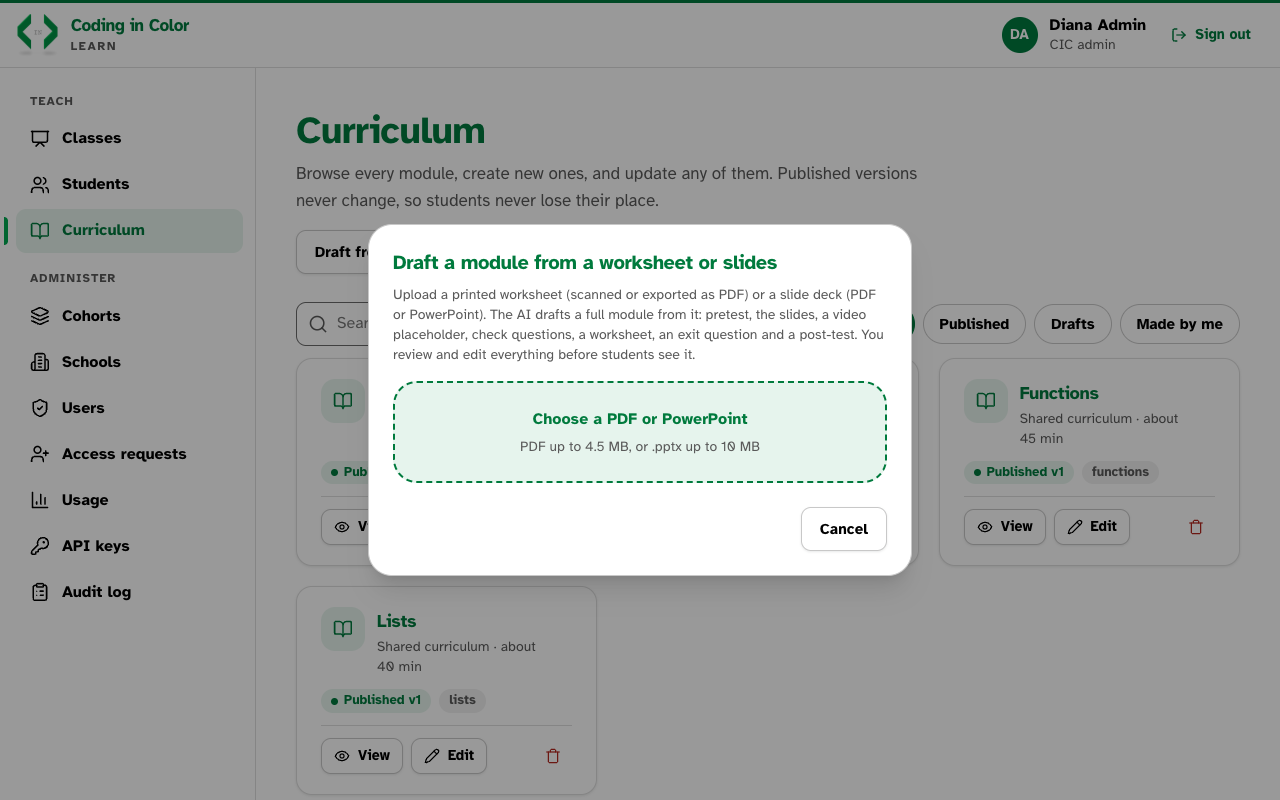
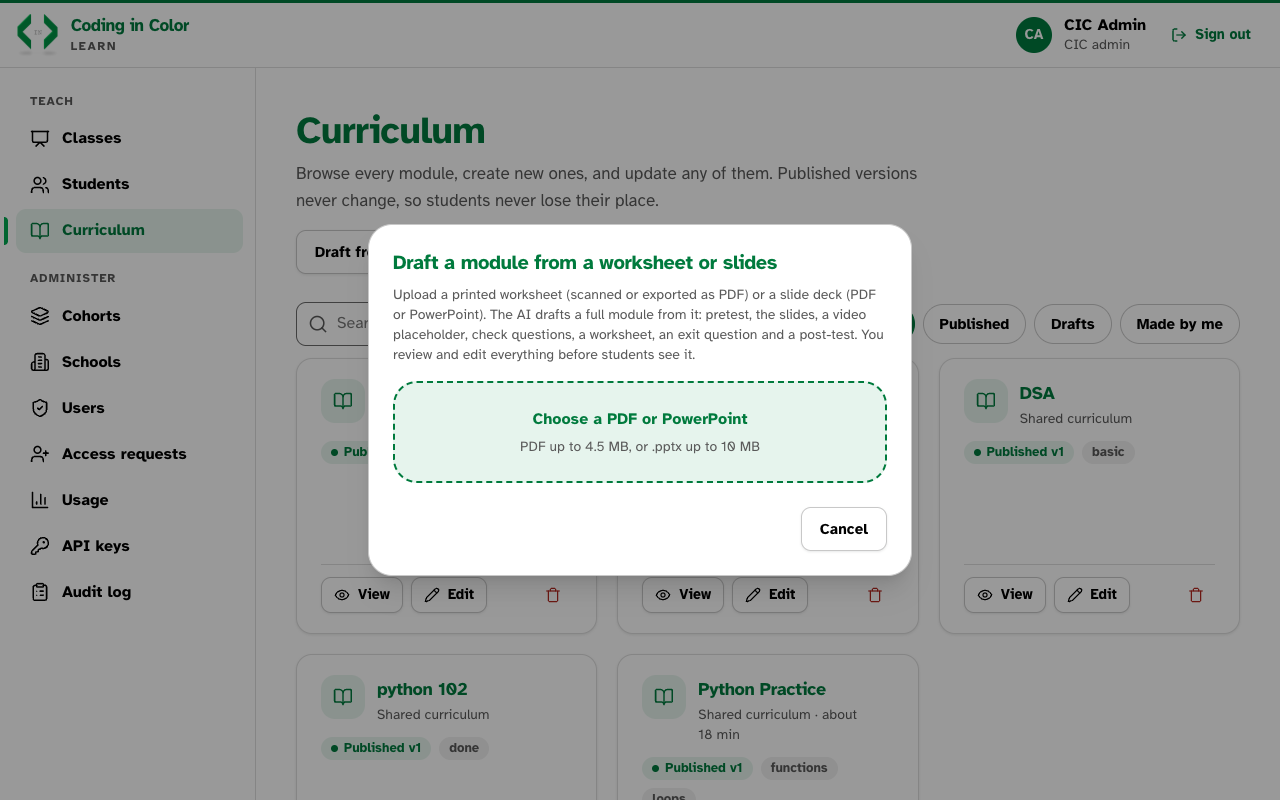
Show the AI file converter flow with screenshots from a real run

diff --git a/README.md b/README.md
@@ -68,9 +68,19 @@ Instructors and CIC staff build modules in a visual editor and publish them with
 </tr>
 </table>
 
+**Draft from a file (AI), step by step.** The screenshots below are from a real run of the live app with a 1.3 MB lecture PDF. The draft took about 25 seconds.
+
 <table>
 <tr>
-<td valign="top"><img src="docs/screenshots/convert-file-dialog.png" alt="Draft from a file (AI): upload a worksheet or slide deck and get a draft module" width="560"><br><sub>Draft from a file (AI): the author uploads a worksheet or deck, then reviews the draft before publishing</sub></td>
+<td width="50%" valign="top"><img src="docs/screenshots/convert-file-dialog.png" alt="Draft from a file (AI): choose a PDF or PowerPoint"><br><sub>1. The author chooses a PDF or PowerPoint</sub></td>
+<td width="50%" valign="top"><img src="docs/screenshots/convert-drafting.png" alt="The AI is drafting the module, with a running timer"><br><sub>2. The AI drafts it in the background, and the author can hide the dialog</sub></td>
+</tr>
+<tr>
+<td width="50%" valign="top"><img src="docs/screenshots/convert-draft-editor.png" alt="The new draft opens in the module editor with a banner asking the author to check every answer"><br><sub>3. The draft opens in the editor. Nothing is visible to students until the author publishes</sub></td>
+<td width="50%" valign="top"><img src="docs/screenshots/convert-draft-pretest.png" alt="The drafted pretest with questions, choices and the marked correct answer"><br><sub>4. Pretest questions with choices and the marked answer, ready to edit</sub></td>
+</tr>
+<tr>
+<td colspan="2" valign="top"><img src="docs/screenshots/convert-draft-worksheet.png" alt="The drafted worksheet with written-answer prompts taken from the file" width="560"><br><sub>5. Worksheet prompts taken from the file. A teacher scores written answers</sub></td>
 </tr>
 </table>
 
